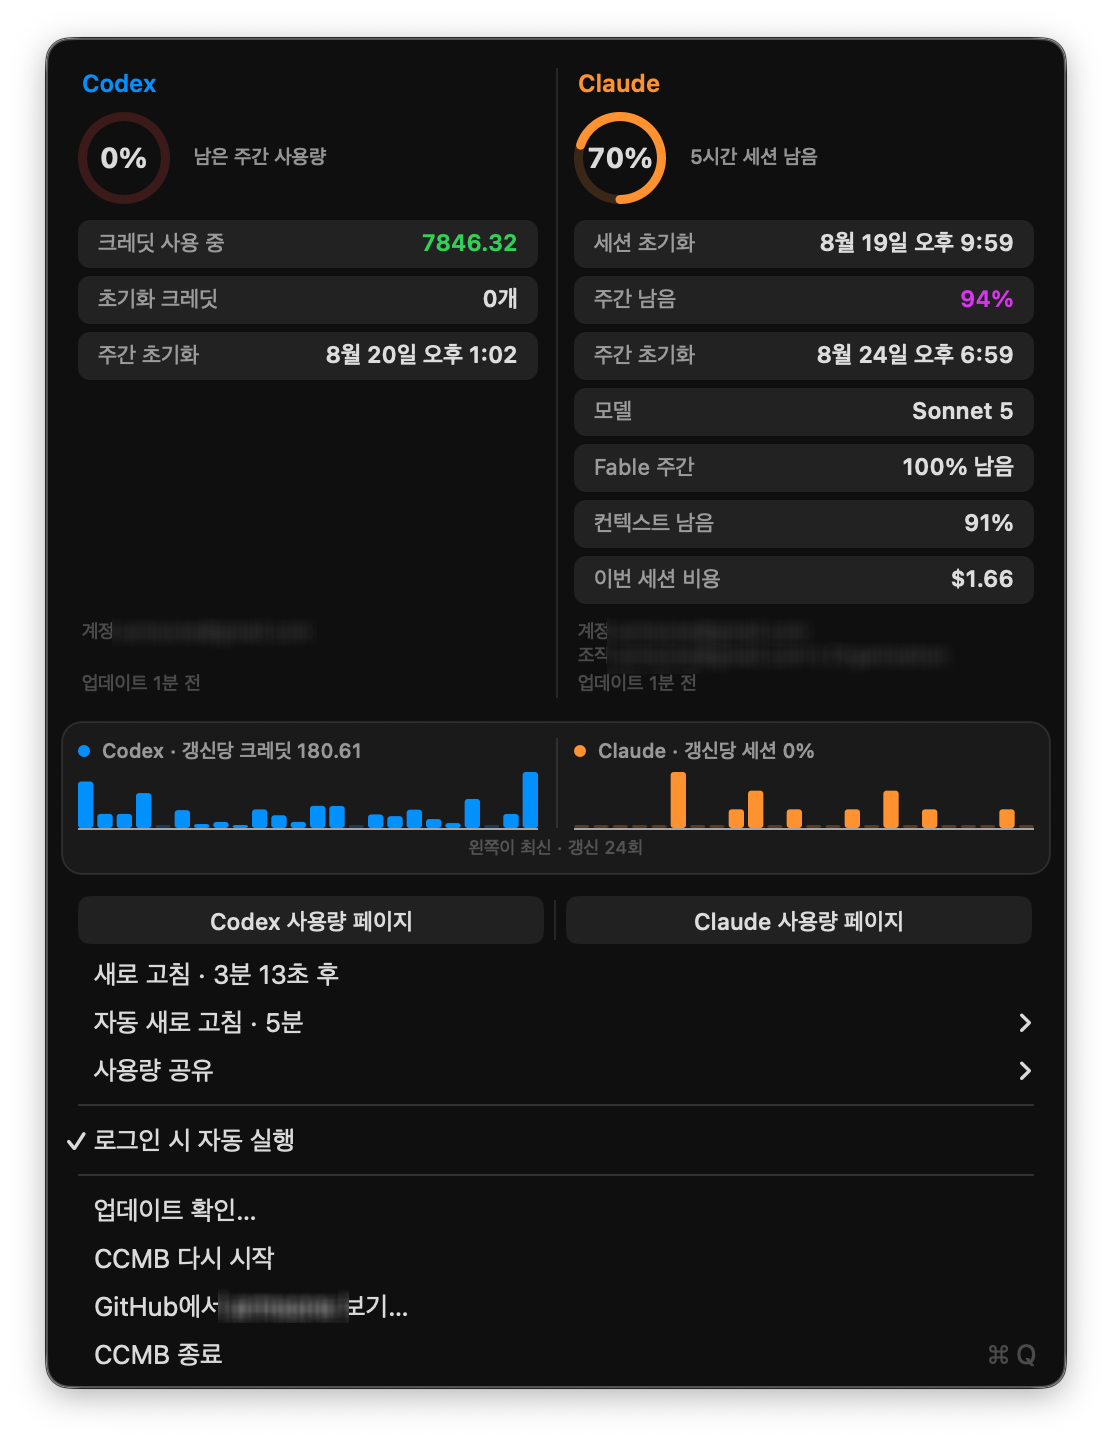
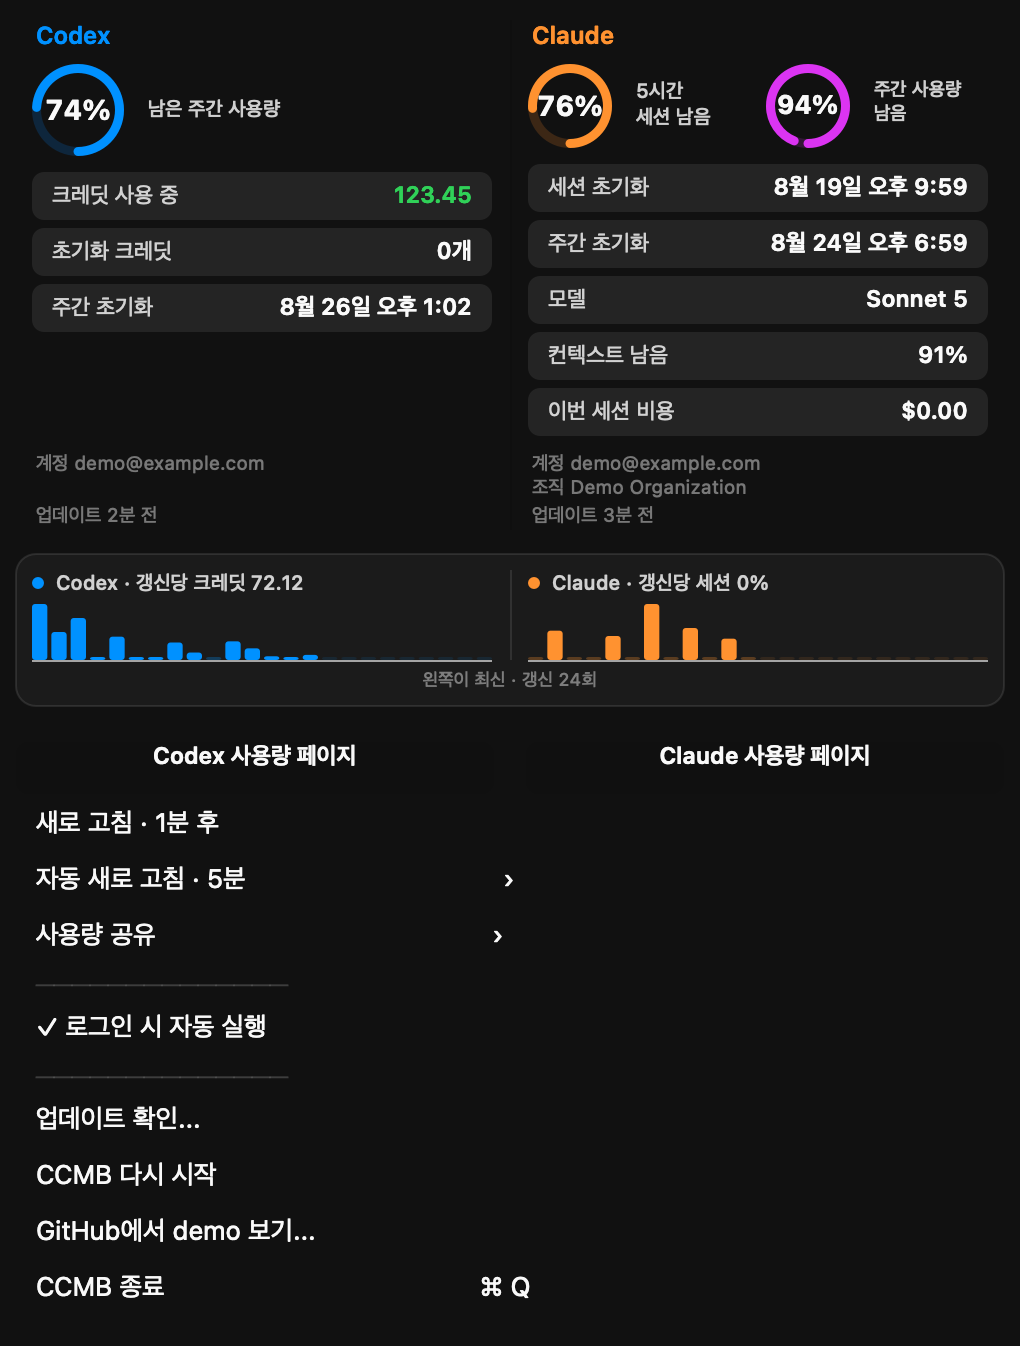
Publish CCMB 0.3.30

diff --git a/app/data.ts b/app/data.ts
@@ -300,10 +300,10 @@ export const apps: AppData[] = [
     theme: "blue",
     artwork: "menubar",
     platforms: [
[2 lines of base64/hex data omitted]
     ],
     features: [
-      { title: "Codex·Claude를 한눈에", body: "Codex의 남은 주간 사용량·크레딧과 Claude의 세션·주간 사용량을 작업 흐름을 끊지 않고 확인합니다." },
+      { title: "Codex·Claude를 한눈에", body: "Codex의 남은 주간 사용량·크레딧과 Claude의 5시간 세션·주간 사용량을 좌우 링으로 나란히 확인합니다." },
       { title: "신뢰할 수 있는 새로고침", body: "직접 또는 자동으로 갱신하고, 오래된 Claude 값과 인증·네트워크·요청 제한 오류를 구분합니다." },
       { title: "정렬된 계정·갱신 정보", body: "Codex와 Claude의 계정 정보와 상대 갱신 시각을 사용량 그래프 바로 위에서 같은 기준으로 비교합니다." },
       { title: "로컬 공유", body: "최신성 근거가 포함된 로컬 JSON을 다른 앱과 Codex 대화에서 안전하게 읽습니다." },
@@ -325,7 +325,7 @@ export const apps: AppData[] = [
     ],
     screenshots: [
       { src: "/apps/ccmb/screens/macos-menubar.png", alt: "CCMB macOS 메뉴 막대의 실제 사용량 표시", layout: "wide" },
-      { src: "/apps/ccmb/screens/ccmb-usage-menu.png", alt: "Codex와 Claude 계정 및 갱신 정보를 나란히 정렬한 최신 CCMB 사용량 메뉴", layout: "menu" },
+      { src: "/apps/ccmb/screens/ccmb-usage-menu.png", alt: "Codex 사용량과 Claude의 5시간 세션·주간 사용량 링을 나란히 표시한 최신 CCMB 메뉴", layout: "menu" },
     ],
     github: ["https://github.com/armsone/CCMB"],
     privacy: [
